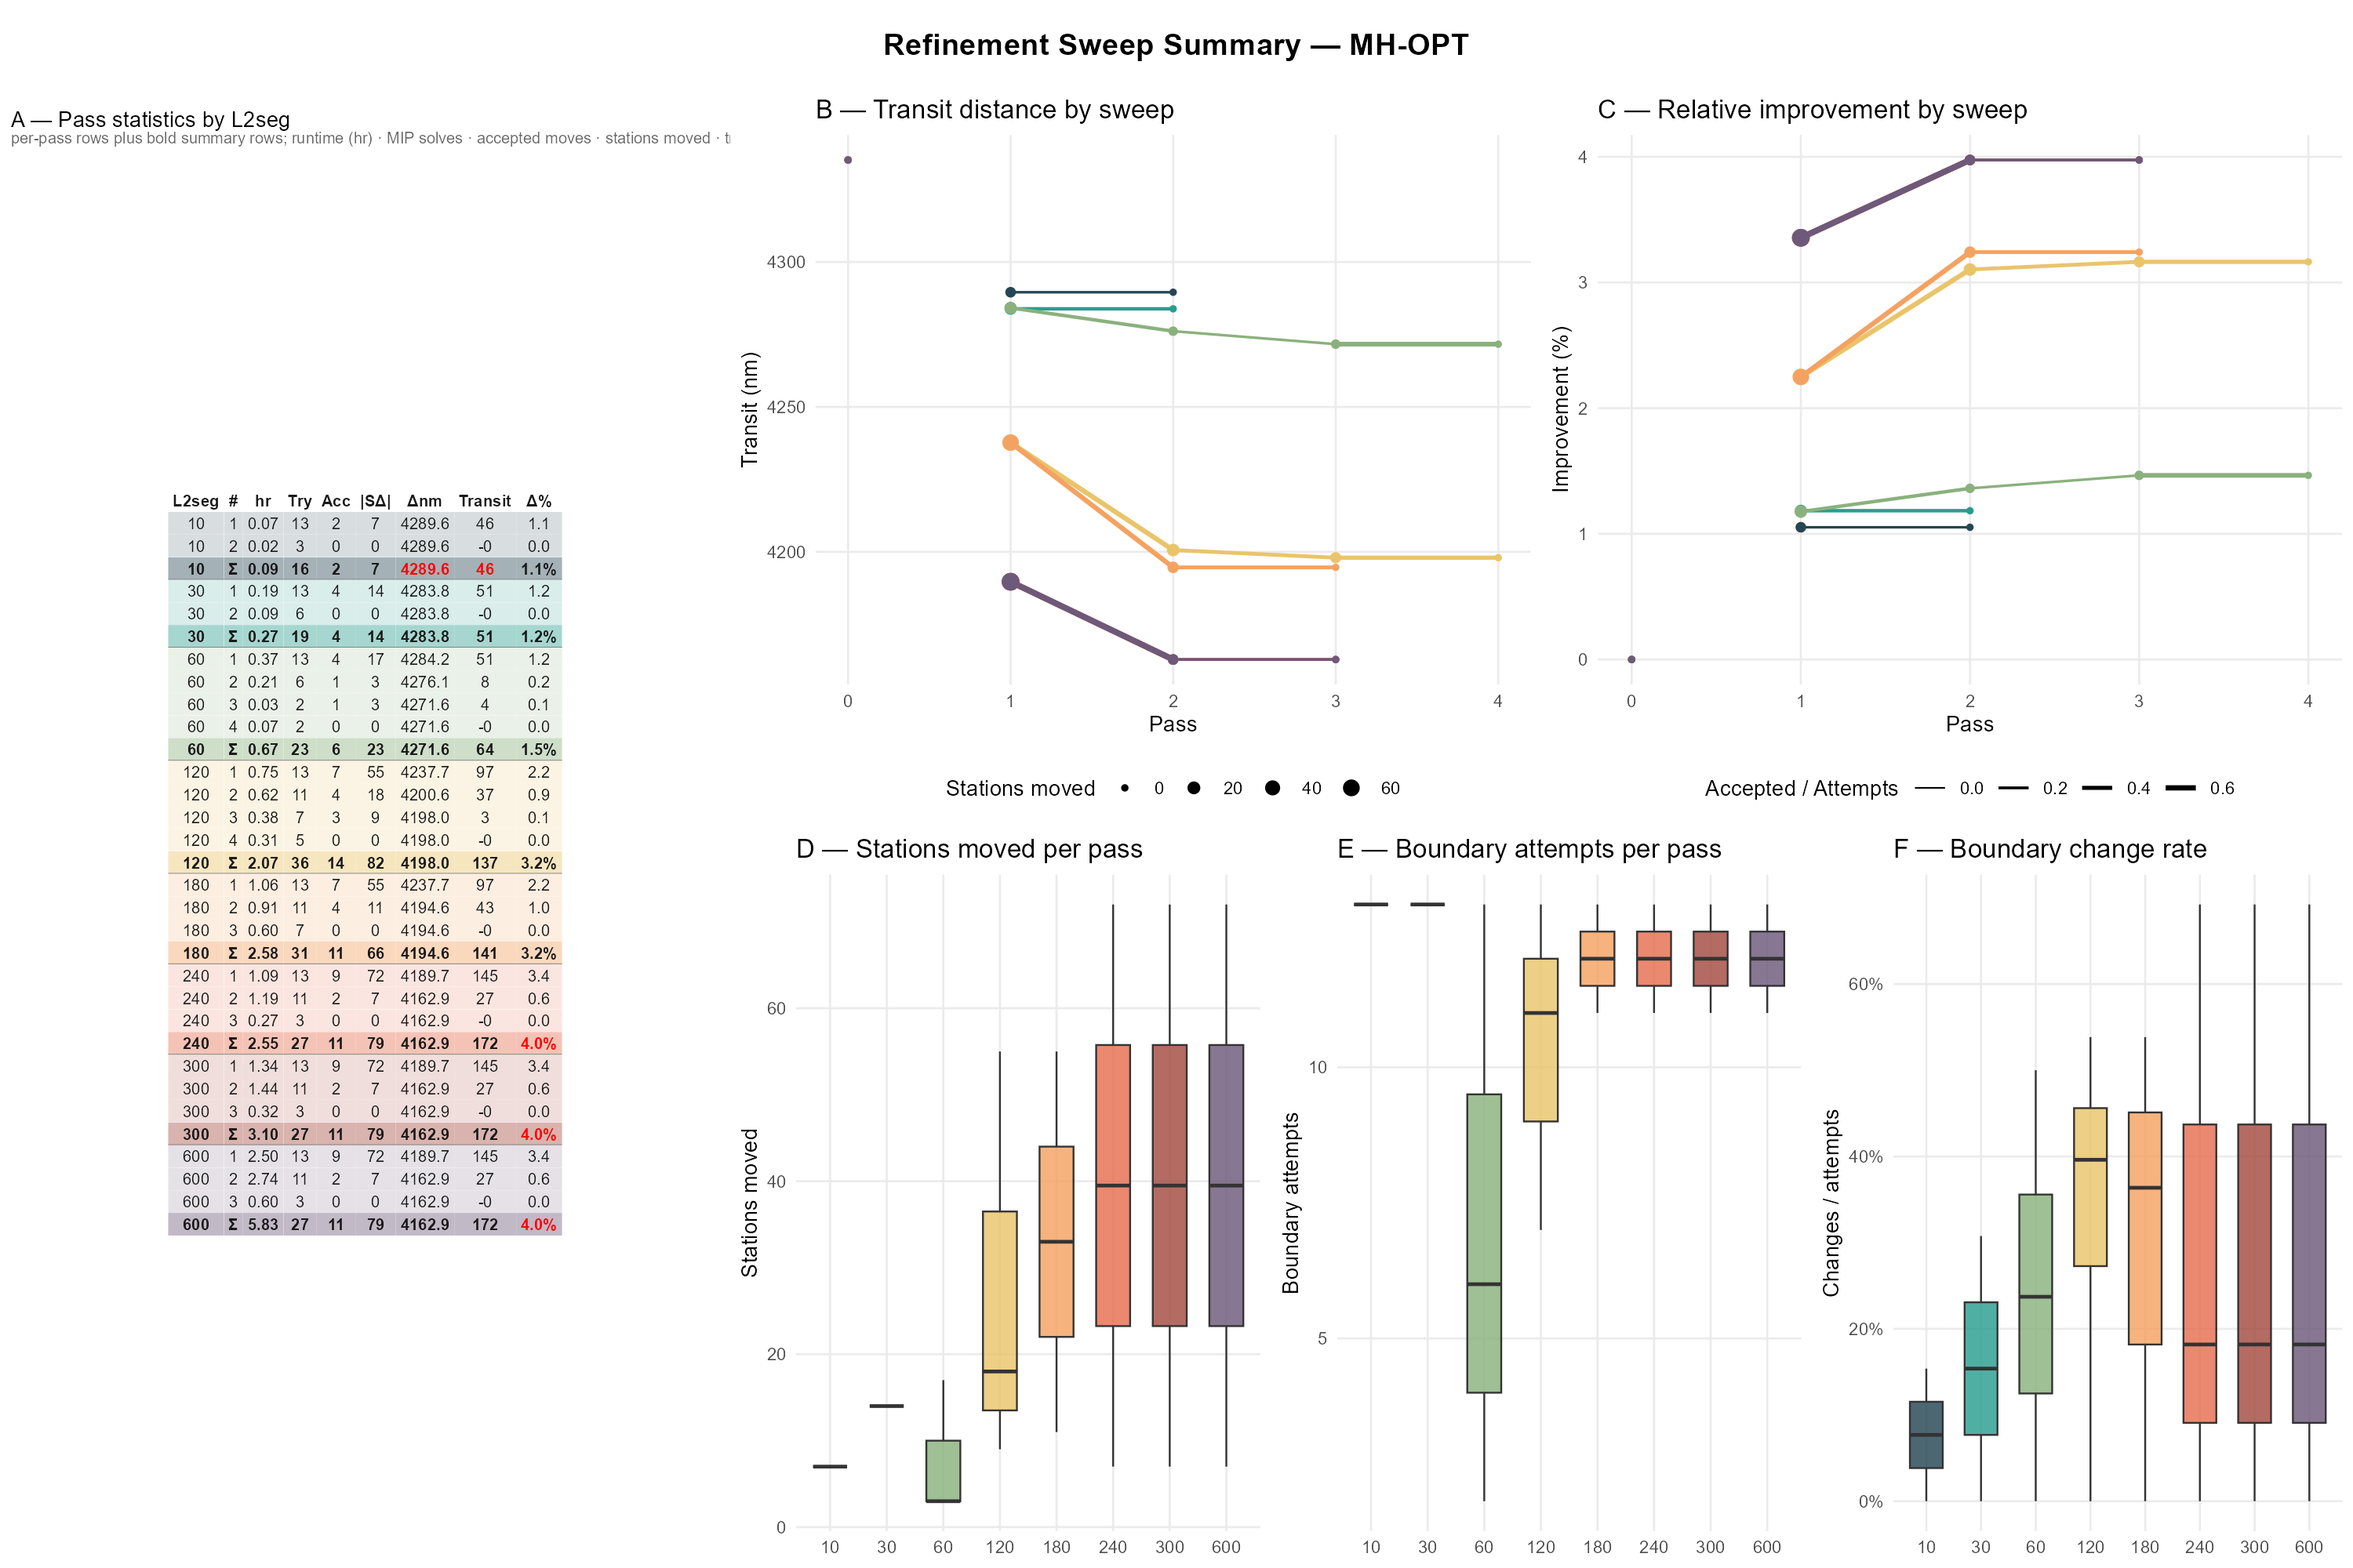
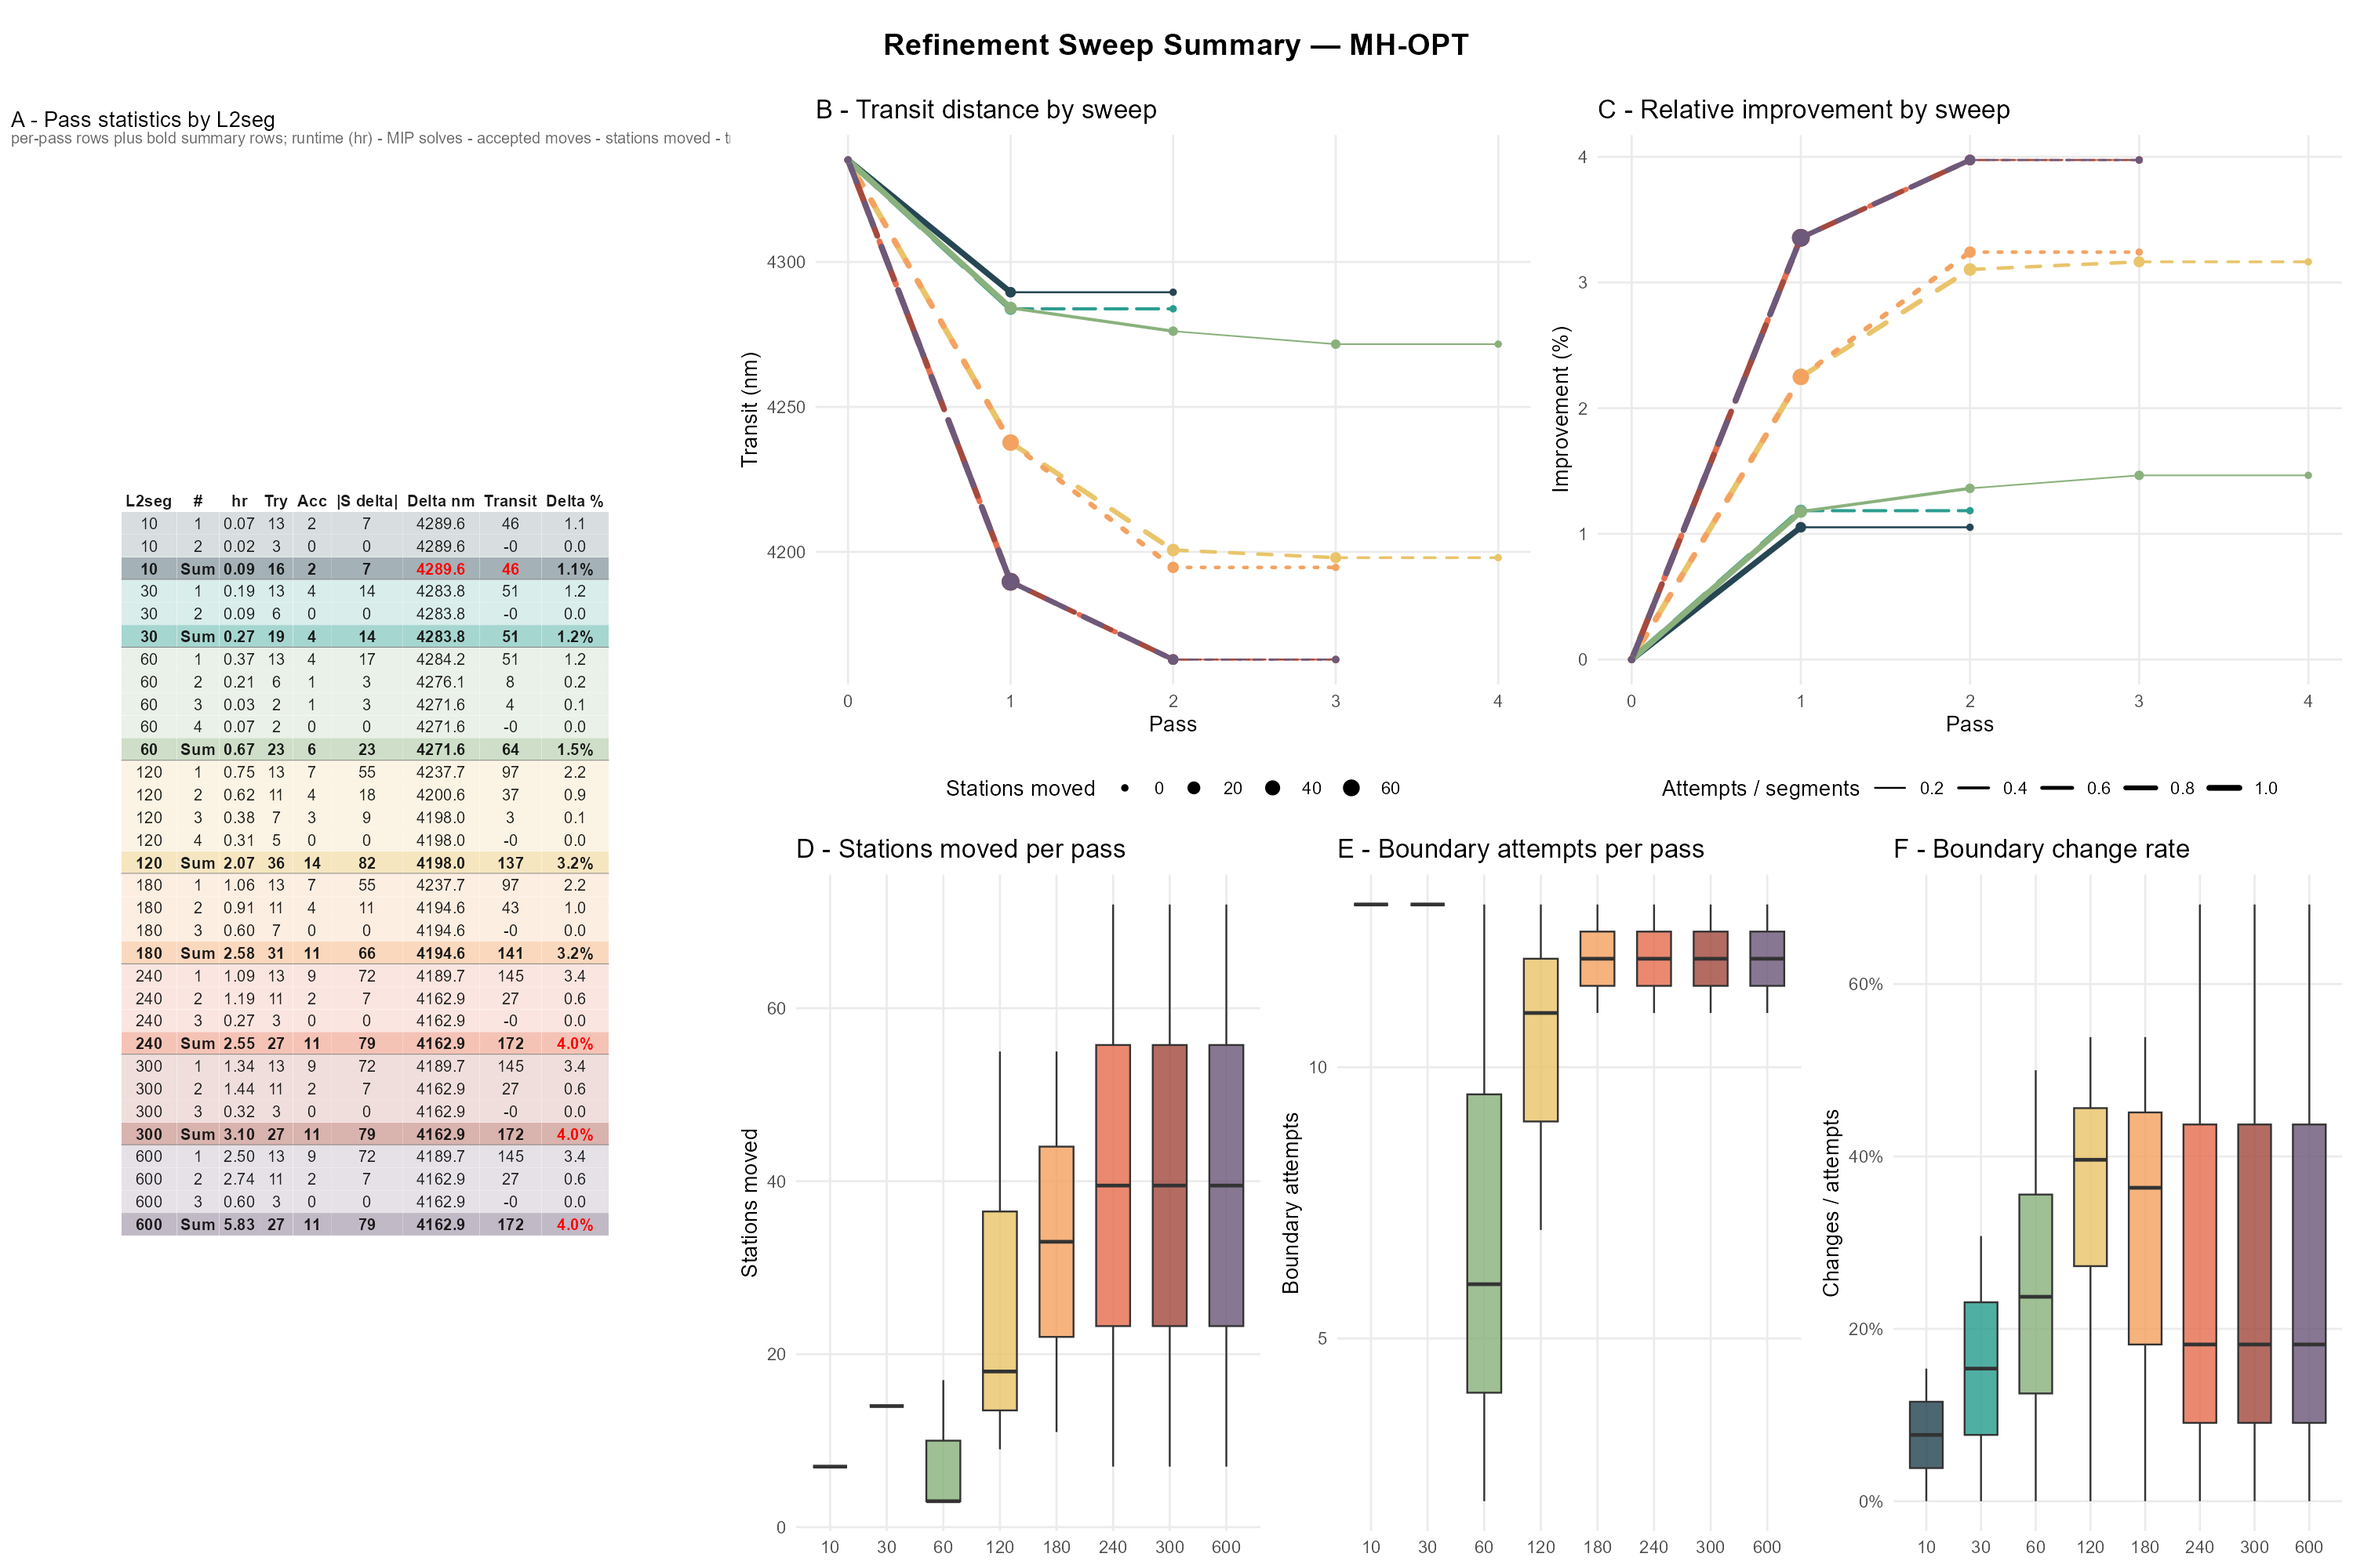
feat: enhance plotting script with new visualizations and camera-ready outputs
- Updated combined plot lines to include segments for smoother transitions.
- Introduced "camera_ready" option for generating high-quality outputs without titles/subtitles.
- Standardized labels, made LaTeX table generation improvements, and fixed inconsistencies in plot titles and subtitles.
- Tweaked line thickness scales and color palettes for clearer visualizations.

diff --git a/sol/refinement_sweep_C_table.tex b/sol/refinement_sweep_C_table.tex
@@ -1,7 +1,7 @@
 \begin{table}[b]
 \centering
-\caption{MH performance by initialization strategy.}
-\label{tab:results}
+\caption{Refinement sweep outcomes.}
+\label{tab:refinement-sweep}
 \begin{tabular}{lrrr|rr|rrr|rrr}
 \toprule
 Method & L2seg & Passes & Runtime (hr) & Attempts & Accepted & S moved total & S moved median & S moved max & Transit nm & Delta nm & Delta pct
